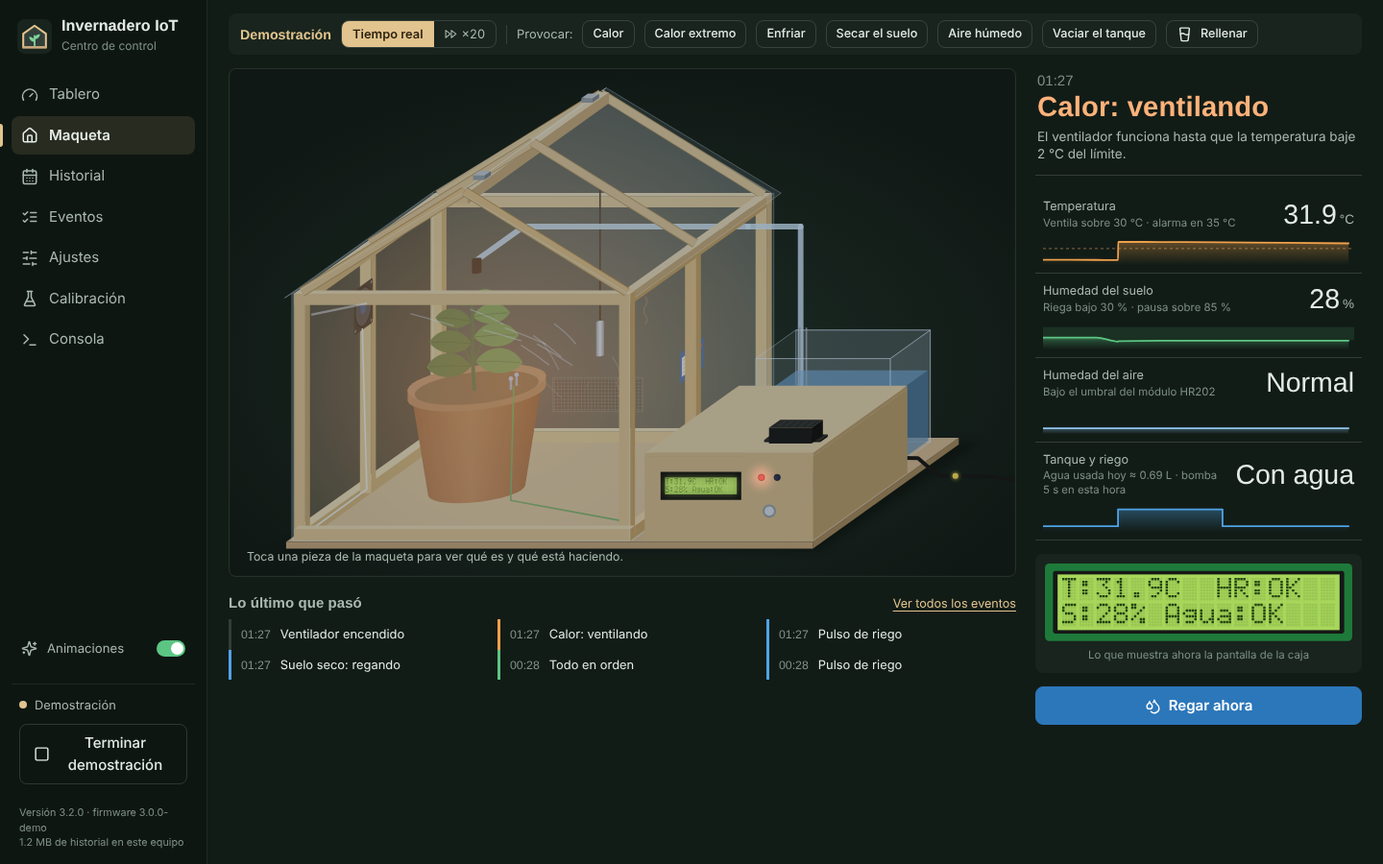
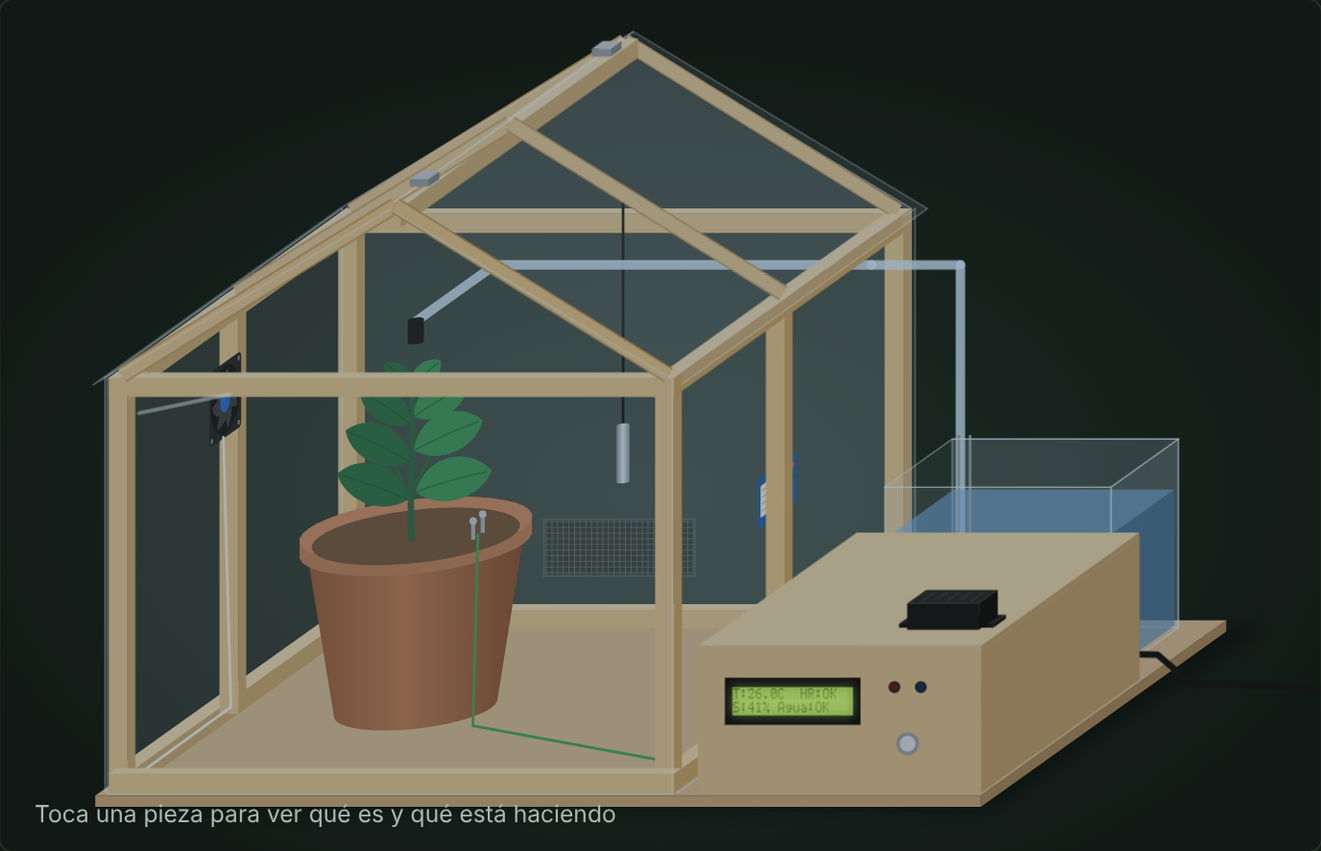
App: maqueta en el tablero

diff --git a/app/src/App.jsx b/app/src/App.jsx
@@ -1,9 +1,8 @@
 import { useCallback, useEffect, useMemo, useRef, useState } from "react";
 import {
-  LuCalendarDays, LuGauge, LuFastForward, LuFlaskConical, LuGlassWater, LuHouse, LuInfo, LuListChecks,
-  LuPlay, LuPlugZap, LuSlidersHorizontal, LuSparkles, LuSquare, LuTerminal, LuUnplug, LuVolume2,
+  LuCalendarDays, LuGauge, LuFastForward, LuFlaskConical, LuGlassWater, LuInfo, LuListChecks,
+  LuPlay, LuPlugZap, LuSlidersHorizontal, LuSquare, LuTerminal, LuUnplug,
 } from "react-icons/lu";
-import Inicio from "./componentes/Inicio.jsx";
 import Tablero from "./componentes/Tablero.jsx";
 import Historial from "./componentes/Historial.jsx";
 import Eventos from "./componentes/Eventos.jsx";
@@ -16,12 +15,12 @@ import { Almacen, RETENCION_LECTURAS_DIAS, RETENCION_MINUTOS_DIAS } from "./lib/
 import { Registro, SEGUNDOS_POR_MUESTRA } from "./lib/registro.js";
 import { CAUDAL_L_POR_S, comandoHoraActual, interpretarLinea, textoConfirmacion } from "./lib/protocolo.js";
 import { generarHistorialDemo } from "./lib/simulador.js";
-import { activarSonido, sonar, sonidoDeEvento } from "./lib/sonido.js";
+import { sonar, sonidoDeEvento } from "./lib/sonido.js";
 
 const PRIORIDAD_SONIDO = ["alarma", "silencio", "riego", "normal", "ventilador", "conectado", "desconectado"];
 
 const VISTAS = [
-  ["tablero", "Tablero", LuGauge], ["inicio", "Maqueta", LuHouse], ["historial", "Historial", LuCalendarDays],
+  ["tablero", "Invernadero", LuGauge], ["historial", "Historial", LuCalendarDays],
   ["eventos", "Eventos", LuListChecks], ["ajustes", "Ajustes", LuSlidersHorizontal], ["calibracion", "Calibración", LuFlaskConical],
   ["consola", "Consola", LuTerminal],
 ];
@@ -44,17 +43,6 @@ let idLinea = 0;
 
 export default function App() {
   const [vista, setVista] = useState("tablero");
-  // preferencia guardada en localStorage
-  const [animar, setAnimar] = useState(() => { try { return localStorage.getItem("invernadero.animaciones") !== "no"; } catch { return true; } });
-  const [sonidos, setSonidos] = useState(() => { try { return localStorage.getItem("invernadero.sonidos") !== "no"; } catch { return true; } });
-  const cambiarSonidos = () => setSonidos((a) => {
-    try { localStorage.setItem("invernadero.sonidos", a ? "no" : "si"); } catch { /* sin almacenamiento */ }
-    activarSonido(!a);
-    if (!a) sonar("conectado");
-    return !a;
-  });
-  useEffect(() => { activarSonido(sonidos); }, [sonidos]);
-  const cambiarAnimar = () => setAnimar((a) => { try { localStorage.setItem("invernadero.animaciones", a ? "no" : "si"); } catch { /* sin almacenamiento */ } return !a; });
   const [cfg, setCfg] = useState(null);
   const [ultima, setUltima] = useState(null);
   const [vivo, setVivo] = useState([]);
@@ -208,7 +196,7 @@ export default function App() {
   const acciones = { conectar: conectarUsb, demo: iniciarDemo, rellenar: conexion.rellenarDemo };
 
   return (
-    <div className="app" data-alarma={+(t?.alarma === 1)} data-movimiento={animar ? "completo" : "reducido"}>
+    <div className="app" data-alarma={+(t?.alarma === 1)}>
       <nav className="riel" aria-label="Secciones">
         <div className="marca">
           <Logo />
@@ -226,12 +214,6 @@ export default function App() {
             </li>
           ))}
         </ul>
-        <button type="button" className="interruptor" role="switch" aria-checked={sonidos} onClick={cambiarSonidos}>
-          <LuVolume2 /> Sonidos <i aria-hidden="true" />
-        </button>
-        <button type="button" className="interruptor" role="switch" aria-checked={animar} onClick={cambiarAnimar}>
-          <LuSparkles /> Animaciones <i aria-hidden="true" />
-        </button>
         <div className="conexion" data-modo={modo}>
           <p className="conexion-estado" role="status"><i />{{ desconectado: "Sin conexión", usb: "Arduino por USB", demo: "Demostración" }[modo]}</p>
           {modo === "desconectado" && (
@@ -272,11 +254,8 @@ export default function App() {
 
         {vista === "tablero" ? (
           <Tablero t={t} cfg={cfg} vivo={vivo} eventos={eventos} modo={modo} pagina={pagina} enviar={enviar} acciones={acciones}
-            aguaHoy={aguaHoy} soportaSerie={soportaSerie} verEventos={() => setVista("eventos")} />
-        ) : vista === "inicio" ? (
-          <Inicio reducir={!animar} eventos={eventos} verEventos={() => setVista("eventos")} t={t} cfg={cfg} vivo={vivo} modo={modo} latido={latido} envio={envio} pagina={pagina}
-            sel={sel} setSel={setSel} foco={foco} setFoco={setFoco} enviar={enviar} acciones={acciones}
-            aireDesde={aireDesde.current} aguaHoy={aguaHoy} soportaSerie={soportaSerie} />
+            aguaHoy={aguaHoy} soportaSerie={soportaSerie} verEventos={() => setVista("eventos")}
+            latido={latido} envio={envio} sel={sel} setSel={setSel} foco={foco} setFoco={setFoco} />
         ) : (
           <section className="hoja" key={vista}>
             <h1>{VISTAS.find((v) => v[0] === vista)[1]}</h1>

diff --git a/app/src/estilos.css b/app/src/estilos.css
@@ -73,8 +73,7 @@ h1, h2, h3 { font-family: var(--datos); font-weight: 600; letter-spacing: .005em
 .secciones button[aria-current="page"] { background: rgba(226, 196, 142, .12); color: var(--en-tapete); font-weight: 600; }
 .secciones button[aria-current="page"]::before { content: ""; position: absolute; left: -12px; top: 8px; bottom: 8px; width: 3px;
   border-radius: 0 3px 3px 0; background: var(--balso); }
-.interruptor:first-of-type { margin-top: auto; }
-.conexion { display: grid; gap: 8px; padding: 12px 8px 4px; border-top: 1px solid rgba(255, 255, 255, .08); }
+.conexion { margin-top: auto; display: grid; gap: 8px; padding: 12px 8px 4px; border-top: 1px solid rgba(255, 255, 255, .08); }
 .conexion-estado { margin: 0 0 2px; display: flex; align-items: center; gap: 8px; font-size: .86rem; color: var(--en-tapete-2); }
 .conexion-estado i { width: 8px; height: 8px; border-radius: 50%; background: var(--en-tapete-3); }
 .conexion[data-modo="usb"] .conexion-estado i { background: var(--hoja); animation: latido 2s infinite; }
@@ -104,7 +103,7 @@ h1, h2, h3 { font-family: var(--datos); font-weight: 600; letter-spacing: .005em
 .banda-demo .separador { width: 1px; height: 20px; background: var(--linea-fuerte); }
 .aviso { display: flex; gap: 10px; align-items: center; background: rgba(226, 196, 142, .14); border-radius: var(--radio); padding: 8px 12px; margin: 0 0 12px; font-size: .9rem; }
 
-/* ------------------------------------ Inicio ----------------------------------- */
+/* ------------------------------------ Maqueta ---------------------------------- */
 .inicio { display: grid; grid-template-columns: minmax(0, 1fr) 340px; grid-template-rows: auto 1fr; gap: 16px 20px; align-items: start; }
 .tablero { grid-column: 2; grid-row: 1 / span 2; }
 .escena-marco { position: relative; width: 100%; border-radius: var(--radio); overflow: hidden; border: 1px solid var(--linea); background: var(--escena); }
@@ -438,7 +437,9 @@ legend svg { width: 16px; height: 16px; color: var(--tinta-2); }
 @keyframes alarma-fondo { 50% { background: rgba(242, 86, 75, .24); } }
 .tv-inicio { display: flex; gap: 10px; }
 
-.tv-medidores { display: grid; grid-template-columns: repeat(4, minmax(0, 1fr)); gap: 14px; }
+.tv-principal { display: grid; grid-template-columns: minmax(0, 1.45fr) minmax(0, 1fr); gap: 14px; align-items: stretch; }
+.tv-principal .escena-marco { align-self: start; }
+.tv-medidores { display: grid; grid-template-columns: repeat(2, minmax(0, 1fr)); gap: 14px; align-content: start; }
 .medida { position: relative; }
 .medidor { display: block; width: 100%; max-width: 250px; margin: -4px auto 0; overflow: visible; }
 .medidor-pista { fill: none; stroke: rgba(255, 255, 255, .07); stroke-width: 12; stroke-linecap: round; }
@@ -508,20 +509,13 @@ legend svg { width: 16px; height: 16px; color: var(--tinta-2); }
 .tablero-vivo[data-sin-datos="1"] .tv-medidores, .tablero-vivo[data-sin-datos="1"] .tv-medio, .tablero-vivo[data-sin-datos="1"] .tv-graficas { opacity: .55; }
 
 @media (max-width: 1320px) {
-  .tv-medidores { grid-template-columns: repeat(2, minmax(0, 1fr)); }
+  .tv-principal { grid-template-columns: 1fr; }
   .tv-medio, .tv-graficas { grid-template-columns: 1fr; }
 }
 
-/* Animaciones reducidas: se eligen en el menú lateral (no depende de la configuración de Windows,
-   que en muchos equipos apaga las animaciones solo para ganar rendimiento) */
-.app[data-movimiento="reducido"] *, .app[data-movimiento="reducido"] *::before, .app[data-movimiento="reducido"] *::after {
-  animation-duration: .001ms !important; animation-iteration-count: 1 !important; transition-duration: .001ms !important;
-}
-.interruptor { display: flex; align-items: center; gap: 10px; width: 100%; border: 0; background: transparent; color: var(--en-tapete-2);
-  padding: 8px 10px; border-radius: var(--radio); font-size: .88rem; text-align: left; }
-.interruptor:hover { background: rgba(255, 255, 255, .05); color: var(--en-tapete); }
-.interruptor svg { width: 17px; height: 17px; flex: none; }
-.interruptor i { margin-left: auto; width: 30px; height: 17px; border-radius: 9px; background: var(--linea-fuerte); position: relative; transition: background .2s; }
-.interruptor i::after { content: ""; position: absolute; top: 2px; left: 2px; width: 13px; height: 13px; border-radius: 50%; background: var(--en-tapete-2); transition: transform .2s; }
-.interruptor[aria-checked="true"] i { background: var(--hoja); }
-.interruptor[aria-checked="true"] i::after { transform: translateX(13px); background: #fff; }
+
+/* columna compacta junto a la maqueta */
+.tv-principal .binario-texto { font-size: 1.7rem; white-space: nowrap; }
+.tv-principal .medida-valor span { font-size: 2.5rem; }
+.tv-principal .tendencia { margin-top: 2px; }
+.tv-principal .medidor { max-width: 210px; }

diff --git a/app/src/componentes/Maqueta.jsx b/app/src/componentes/Maqueta.jsx
@@ -1,0 +1,44 @@
+// Maqueta interactiva con la ficha de cada pieza
+import { LuBellOff, LuDroplets, LuGlassWater, LuX } from "react-icons/lu";
+import Escena, { VB } from "../escena/Escena.jsx";
+import { PIEZAS } from "../escena/piezas.js";
+import { P } from "../escena/proyeccion.js";
+
+const pct = ([x, y]) => ({ left: `${((x - VB.x) / VB.w) * 100}%`, top: `${((y - VB.y) / VB.h) * 100}%` });
+
+function Ficha({ id, t, cfg, modo, enviar, acciones, cerrar }) {
+  const p = PIEZAS[id];
+  const [x, y] = P(...p.ancla);
+  const izquierda = p.lado ? p.lado === "izquierda" : (x - VB.x) / VB.w > 0.55;
+  const arriba = (y - VB.y) / VB.h > 0.62;
+  return (
+    <div className="ficha" style={pct([x, y])} data-izquierda={+izquierda} data-arriba={+arriba} role="dialog" aria-label={p.nombre}
+      onClick={(e) => e.stopPropagation()}>
+      <header>
+        <h3>{p.nombre}</h3>
+        <button type="button" className="cerrar" onClick={cerrar} aria-label="Cerrar ficha"><LuX /></button>
+      </header>
+      <p className="ficha-valor">{p.valor(t, cfg, modo)}</p>
+      <dl>
+        <dt>Pieza</dt><dd>{p.modelo}</dd>
+        <dt>Conexión</dt><dd>{p.conexion}</dd>
+      </dl>
+      <p className="ficha-texto">{p.texto}</p>
+      {p.accion === "riego" && <button type="button" className="boton agua" disabled={!t} onClick={() => enviar("RIEGO")}><LuDroplets /> Regar ahora</button>}
+      {p.accion === "silencio" && t?.alarma === 1 && <button type="button" className="boton alarma" onClick={() => enviar("SILENCIO")}><LuBellOff /> Silenciar 10 min</button>}
+      {p.accion === "rellenar" && modo === "demo" && <button type="button" className="boton" onClick={acciones.rellenar}><LuGlassWater /> Rellenar tanque</button>}
+    </div>
+  );
+}
+
+export default function Maqueta({ t, cfg, modo, latido, envio, pagina, sel, setSel, foco, setFoco, enviar, acciones }) {
+  return (
+    <div className="escena-marco" style={{ aspectRatio: `${VB.w} / ${VB.h}` }} onClick={() => setSel(null)}>
+      <Escena t={t} cfg={cfg} modo={modo} latido={latido} envio={envio} pagina={pagina}
+        sel={sel} setSel={setSel} foco={foco} setFoco={setFoco} tapaAbierta={sel === "caja"} />
+      {foco && foco !== sel && PIEZAS[foco] && <span className="etiqueta-pieza" style={pct(P(...PIEZAS[foco].ancla))}>{PIEZAS[foco].nombre}</span>}
+      {sel && PIEZAS[sel] && <Ficha id={sel} t={t} cfg={cfg} modo={modo} enviar={enviar} acciones={acciones} cerrar={() => setSel(null)} />}
+      {modo !== "desconectado" && !sel && <p className="pista">Toca una pieza para ver qué es y qué está haciendo</p>}
+    </div>
+  );
+}

diff --git a/app/src/componentes/Tablero.jsx b/app/src/componentes/Tablero.jsx
@@ -4,6 +4,7 @@ import {
   LuBellOff, LuBellRing, LuDroplets, LuFan, LuGlassWater, LuPlay, LuPlugZap, LuThermometer, LuWaves, LuWind,
 } from "react-icons/lu";
 import { GraficaTiempo, TiraActuadores } from "./Grafica.jsx";
+import Maqueta from "./Maqueta.jsx";
 import Lcd, { textoLcd } from "../escena/Lcd.jsx";
 import { textoEstado } from "../lib/protocolo.js";
 import { duracion, useAhora, useSuave } from "../lib/tiempo.js";
@@ -98,7 +99,7 @@ function Actuador({ nombre, icono: Icono, activo, color, estado, detalle, childr
 const mayus = (s) => (s ? s[0].toUpperCase() + s.slice(1) : s);
 const MOTIVO_ALARMA = { SIN_AGUA: "tanque vacío", TEMPERATURA_CRITICA: "temperatura crítica", FALLA_SENSOR_TEMP: "falla del DS18B20" };
 
-export default function Tablero({ t, cfg, vivo, eventos, modo, pagina, enviar, acciones, aguaHoy, soportaSerie, verEventos }) {
+export default function Tablero({ t, cfg, vivo, eventos, modo, pagina, enviar, acciones, aguaHoy, soportaSerie, verEventos, latido, envio, sel, setSel, foco, setFoco }) {
   useAhora(1000);
   const ahora = Date.now();
   const e = t ? textoEstado(t.estado) : { titulo: modo === "desconectado" ? "Sin conexión" : "Esperando lecturas", detalle: "", tono: "neutro" };
@@ -153,6 +154,9 @@ export default function Tablero({ t, cfg, vivo, eventos, modo, pagina, enviar, a
         </div>
       )}
 
+      <div className="tv-principal">
+      <Maqueta t={t} cfg={cfg} modo={modo} latido={latido} envio={envio} pagina={pagina}
+        sel={sel} setSel={setSel} foco={foco} setFoco={setFoco} enviar={enviar} acciones={acciones} />
       <div className="tv-medidores">
         <Panel titulo="Temperatura del aire" icono={LuThermometer} tono={t && t.temp_c >= tCrit ? "alarma" : undefined}>
           <div className="medida">
@@ -210,6 +214,7 @@ export default function Tablero({ t, cfg, vivo, eventos, modo, pagina, enviar, a
           </div>
           {modo === "demo" && <button type="button" className="boton chico sec" onClick={acciones.rellenar}><LuGlassWater /> Rellenar</button>}
         </Panel>
+      </div>
       </div>
 
       <div className="tv-medio">

diff --git a/app/src/lib/sonido.js b/app/src/lib/sonido.js
@@ -2,7 +2,6 @@
 // campana: parciales inarmónicos con caída exponencial + reverberación corta
 
 let ctx = null, salida = null, reverb = null;
-let activo = true;
 let ultimo = -Infinity;
 
 function iniciar() {
@@ -94,7 +93,7 @@ const SONIDOS = {
 };
 
 export function sonar(nombre) {
-  if (!activo || !SONIDOS[nombre]) return;
+  if (!SONIDOS[nombre]) return;
   if (!iniciar()) return;
   if (ctx.state === "suspended") ctx.resume();
   const ahora = performance.now();
@@ -103,7 +102,6 @@ export function sonar(nombre) {
   try { SONIDOS[nombre](); } catch { /* audio no disponible */ }
 }
 
-export function activarSonido(v) { activo = v; }
 
 // tipo de evento del registro -> sonido
 export function sonidoDeEvento(ev) {

diff --git a/docs/manual-usuario.md b/docs/manual-usuario.md
@@ -65,27 +65,25 @@ Funciona en Windows 10 y 11 de 64 bits y no necesita internet. Si el Arduino es 
 
 ### Tablero
 
-La aplicación abre en el **Tablero**, pensado para dejarlo a la vista mientras el sistema trabaja. Arriba muestra el estado del invernadero, la hora, cuánto hace que llegó la última lectura y la conexión; si suena una alarma aparece una franja roja con su motivo y el botón para silenciarla. Debajo están los medidores de temperatura y humedad del suelo, con sus zonas (ventilar, alarma, riego), los mínimos y máximos de los últimos 30 minutos y la tendencia de los últimos 10, la humedad del aire y el tanque. La fila de actuadores dice si la bomba, el ventilador y la alarma están activos, por qué y desde hace cuánto, cuántos pulsos de riego van en el día y cuánto del cupo de 900 s por hora lleva la bomba. Al final están la réplica de la pantalla LCD, los últimos eventos y las gráficas de los últimos 30 minutos.
+La aplicación abre en la sección **Invernadero**, pensada para dejarlo a la vista mientras el sistema trabaja. Arriba muestra el estado del invernadero, la hora, cuánto hace que llegó la última lectura y la conexión; si suena una alarma aparece una franja roja con su motivo y el botón para silenciarla. Debajo, a la izquierda, está la maqueta animada, y a su lado los medidores de temperatura y humedad del suelo, con sus zonas (ventilar, alarma, riego), los mínimos y máximos de los últimos 30 minutos y la tendencia de los últimos 10, la humedad del aire y el tanque. La fila de actuadores dice si la bomba, el ventilador y la alarma están activos, por qué y desde hace cuánto, cuántos pulsos de riego van en el día y cuánto del cupo de 900 s por hora lleva la bomba. Al final están la réplica de la pantalla LCD, los últimos eventos y las gráficas de los últimos 30 minutos.
 
-![Tablero](img/aplicacion.png)
+![Pantalla principal](img/aplicacion.png)
 
 ### La maqueta
 
-La sección **Maqueta** muestra la maqueta tal como está construida, animada con las lecturas: gira el ventilador, corre el agua, cambian la tierra y las hojas, baja el tanque, aparece rocío con el aire húmedo y el zumbador emite ondas con la alarma. Cada lectura que llega viaja como un punto amarillo por el cable USB; cada comando, como un punto celeste en sentido contrario.
+La maqueta de la pantalla principal es la misma que está construida, animada con las lecturas: gira el ventilador, corre el agua, cambian la tierra y las hojas, baja el tanque, aparece rocío con el aire húmedo y el zumbador emite ondas con la alarma. Cada lectura que llega viaja como un punto amarillo por el cable USB; cada comando, como un punto celeste en sentido contrario.
 
-La aplicación también avisa con sonidos al conectarse, al regar, al encender el ventilador, con las alarmas y al volver a la normalidad; el interruptor **Sonidos** del menú lateral los apaga. Las animaciones están activadas por defecto; el interruptor **Animaciones** del menú lateral las apaga si el equipo es muy lento o si prefieres una vista quieta.
+La aplicación también avisa con sonidos al conectarse, al regar, al encender el ventilador, con las alarmas y al volver a la normalidad; los sonidos y las animaciones están siempre activos.
 
 Al tocar una pieza aparece su ficha: qué es, cómo está conectada, qué está haciendo y, cuando corresponde, un botón para actuar (regar, silenciar la alarma o rellenar el tanque en la demostración). Al tocar la caja se levanta la tapa y se ve el interior, con los LEDs de los relés y el LED TX del Arduino.
 
 ![Caja abierta en la aplicación](img/aplicacion-caja.png)
 
-A la derecha, el tablero muestra el estado, las cuatro lecturas con su traza de los últimos 30 minutos y una réplica de la pantalla LCD de la caja. Debajo de la maqueta, la bitácora muestra lo último que pasó.
-
 ### Secciones
 
 | Sección | Contenido |
 |---|---|
-| Tablero | Pantalla principal en tiempo real: estado y alarma, medidores de temperatura y humedad del suelo con mínimos, máximos y tendencia de 10 min, humedad del aire, tanque y agua usada, bomba, ventilador, alarma y LEDs con su tiempo en el estado actual, cupo de la bomba en la hora, réplica de la LCD, últimos eventos y gráficas de 30 min |
+| Invernadero | Pantalla principal en tiempo real: estado y alarma, maqueta interactiva con la ficha de cada pieza, medidores de temperatura y humedad del suelo con mínimos, máximos y tendencia de 10 min, humedad del aire, tanque y agua usada, bomba, ventilador, alarma y LEDs con su tiempo en el estado actual, cupo de la bomba en la hora, réplica de la LCD, últimos eventos y gráficas de 30 min |
 | Maqueta | Maqueta interactiva, lecturas, pantalla LCD, acciones y bitácora |
 | Historial | Hoy, 7 días o 30 días: estadísticas, gráficas por minuto y resumen diario. Exportación a CSV |
 | Eventos | Cambios de estado, riegos, ventilador, aire húmedo, alarmas, comandos y conexiones |

diff --git a/app/README.md b/app/README.md
@@ -18,8 +18,7 @@ El instalador `Invernadero-IoT-<versión>-Windows.exe` está en la sección [Rel
 
 | Sección | Contenido |
 |---|---|
-| Tablero | Pantalla principal en tiempo real: estado y alarma, medidores de temperatura y humedad del suelo con mínimos, máximos y tendencia de 10 min, humedad del aire, tanque y agua usada, bomba, ventilador, alarma y LEDs con su tiempo en el estado actual, cupo de la bomba en la hora, réplica de la LCD, últimos eventos y gráficas de 30 min |
-| Maqueta | Maqueta interactiva animada con los datos, con la ficha de cada pieza |
+| Invernadero | Pantalla principal en tiempo real: estado y alarma, maqueta interactiva animada con la ficha de cada pieza, medidores de temperatura y humedad del suelo con mínimos, máximos y tendencia de 10 min, humedad del aire, tanque y agua usada, bomba, ventilador, alarma y LEDs con su tiempo en el estado actual, cupo de la bomba en la hora, réplica de la LCD, últimos eventos y gráficas de 30 min |
 | Historial | Hoy, 7 o 30 días: estadísticas, gráficas por minuto, resumen diario y exportación a CSV |
 | Eventos | Cambios de estado, riegos, ventilador, aire húmedo, alarmas, comandos y conexiones |
 | Ajustes | Umbrales de temperatura y suelo, y puesta en hora del reloj del invernadero |
@@ -48,7 +47,7 @@ La maqueta se dibuja en proyección oblicua con las medidas de [`docs/maqueta.md
 
 Las lecturas llegan cada 2 s, pero la escena no salta: temperatura, humedad y nivel se suavizan y los números del tablero se deslizan hasta su nuevo valor. El motor de animación (`escena/motor.js`) corre en un único `requestAnimationFrame`, usa conjuntos fijos de elementos SVG para las partículas y un paso fijo de 1/240 s para el agua, y modifica el SVG directamente sin volver a renderizar React. Toma alrededor de 1 ms por cuadro, así que la escena se mantiene a 60 cuadros por segundo con todo activo. [Video de 31 s a 60 fps](../docs/img/maqueta-app-60fps.mp4) grabado de la demostración: riego, calor, aire húmedo, tanque vacío y rellenado.
 
-Cada pieza se puede tocar. Su ficha dice qué es, cómo está conectada y qué está haciendo, y ofrece la acción que le corresponde: regar desde la bomba, silenciar desde el zumbador o rellenar el tanque en la demostración. Al tocar la caja, la tapa se levanta y las paredes se vuelven translúcidas para mostrar el Arduino, la protoboard y los dos relés, con el LED TX que destella en cada lectura y el LED de cada relé. Las animaciones se apagan con el interruptor **Animaciones** del menú lateral, y la elección se recuerda en el equipo. No dependen de la opción «Mostrar animaciones en Windows», que muchos equipos tienen desactivada solo para ganar rendimiento.
+Cada pieza se puede tocar. Su ficha dice qué es, cómo está conectada y qué está haciendo, y ofrece la acción que le corresponde: regar desde la bomba, silenciar desde el zumbador o rellenar el tanque en la demostración. Al tocar la caja, la tapa se levanta y las paredes se vuelven translúcidas para mostrar el Arduino, la protoboard y los dos relés, con el LED TX que destella en cada lectura y el LED de cada relé. Las animaciones están siempre activas y no dependen de la opción «Mostrar animaciones en Windows».
 
 ![Caja abierta con la electrónica visible](../docs/img/aplicacion-caja.png)
 
@@ -66,7 +65,7 @@ Cada pieza se puede tocar. Su ficha dice qué es, cómo está conectada y qué e
 | Vuelta a «Todo en orden» | Dos notas que resuelven |
 | Comando confirmado | Una campana aguda |
 
-El interruptor **Sonidos** del menú lateral los apaga; la elección se guarda en el equipo.
+Los sonidos están siempre activos.
 
 ## Arquitectura
 
@@ -94,7 +93,7 @@ app/
 │   │   ├── registro.js     Ventana en vivo, eventos, resumen por minuto y por día
 │   │   ├── almacen.js      IndexedDB: lecturas, minutos y eventos, con retención
 │   │   └── simulador.js    Arduino simulado con el mismo protocolo
-│   └── componentes/        Tablero, Inicio (maqueta), Historial, Eventos, Ajustes, Calibración, Consola, SelectorPuerto
+│   └── componentes/        Tablero (pantalla principal), Maqueta, Historial, Eventos, Ajustes, Calibración, Consola, SelectorPuerto
 ├── public/                 Íconos
 ├── recursos/icon.png       Ícono del instalador
 └── build.mjs               Construcción de la interfaz con esbuild

diff --git a/README.md b/README.md
@@ -75,7 +75,7 @@ Los valores son los de fábrica y se cambian con comandos como `TEMP 28` o `SUEL
 
 **Invernadero IoT** es una aplicación para Windows 10 y 11 que se instala con un instalador `.exe` y se conecta al Arduino por el cable USB. Complementa al firmware: el Arduino mide, decide y envía una lectura cada 2 s; la aplicación muestra, guarda y analiza, sin ocupar memoria del Arduino.
 
-- **Tablero en tiempo real:** la pantalla principal muestra el estado, medidores de temperatura y humedad del suelo con sus zonas, mínimos, máximos y tendencia, la humedad del aire, el tanque, la bomba, el ventilador y la alarma con su tiempo en el estado actual, la réplica de la LCD, los últimos eventos y gráficas de 30 minutos.
+- **Tablero en tiempo real:** la pantalla principal muestra el estado, la maqueta animada, medidores de temperatura y humedad del suelo con sus zonas, mínimos, máximos y tendencia, la humedad del aire, el tanque, la bomba, el ventilador y la alarma con su tiempo en el estado actual, la réplica de la LCD, los últimos eventos y gráficas de 30 minutos.
 - **Maqueta interactiva:** la misma maqueta del repositorio, con sus medidas y materiales, se mueve con los datos reales. El ventilador gira con inercia y el aire cruza la planta, el agua corre por la manguera y gotea sobre la maceta, la tierra cambia de color con la humedad, las hojas caen con el suelo seco, el tanque baja, aparece rocío en el acrílico con el aire húmedo y el zumbador emite ondas con la alarma. Cada pieza se toca para ver qué es, cómo está conectada, qué hace en ese momento y, cuando corresponde, para actuar: regar, silenciar la alarma o levantar la tapa de la caja para ver el Arduino, la protoboard y los relés.
 - **Réplica de la pantalla LCD:** muestra exactamente lo que escribe la pantalla de la caja, con la misma matriz de puntos y las mismas dos páginas.
 - **Historial y eventos:** lecturas de los últimos 2 días y resúmenes por minuto de 180 días guardados en el equipo, estadísticas diarias y exportación a CSV.

diff --git a/CHANGELOG.md b/CHANGELOG.md
@@ -2,6 +2,12 @@
 
 Formato basado en [Keep a Changelog](https://keepachangelog.com/es-ES/1.1.0/). Versiones según [SemVer](https://semver.org/lang/es/).
 
+## [3.4.0] - 2026-11-20
+
+### Cambiado
+- La maqueta interactiva y el tablero en tiempo real quedan en la misma pantalla (sección **Invernadero**): maqueta a la izquierda y medidores, aire y tanque a la derecha.
+- Sonidos y animaciones siempre activos; se quitan los interruptores del menú lateral.
+
 ## [3.3.0] - 2026-11-20
 
 ### Agregado
